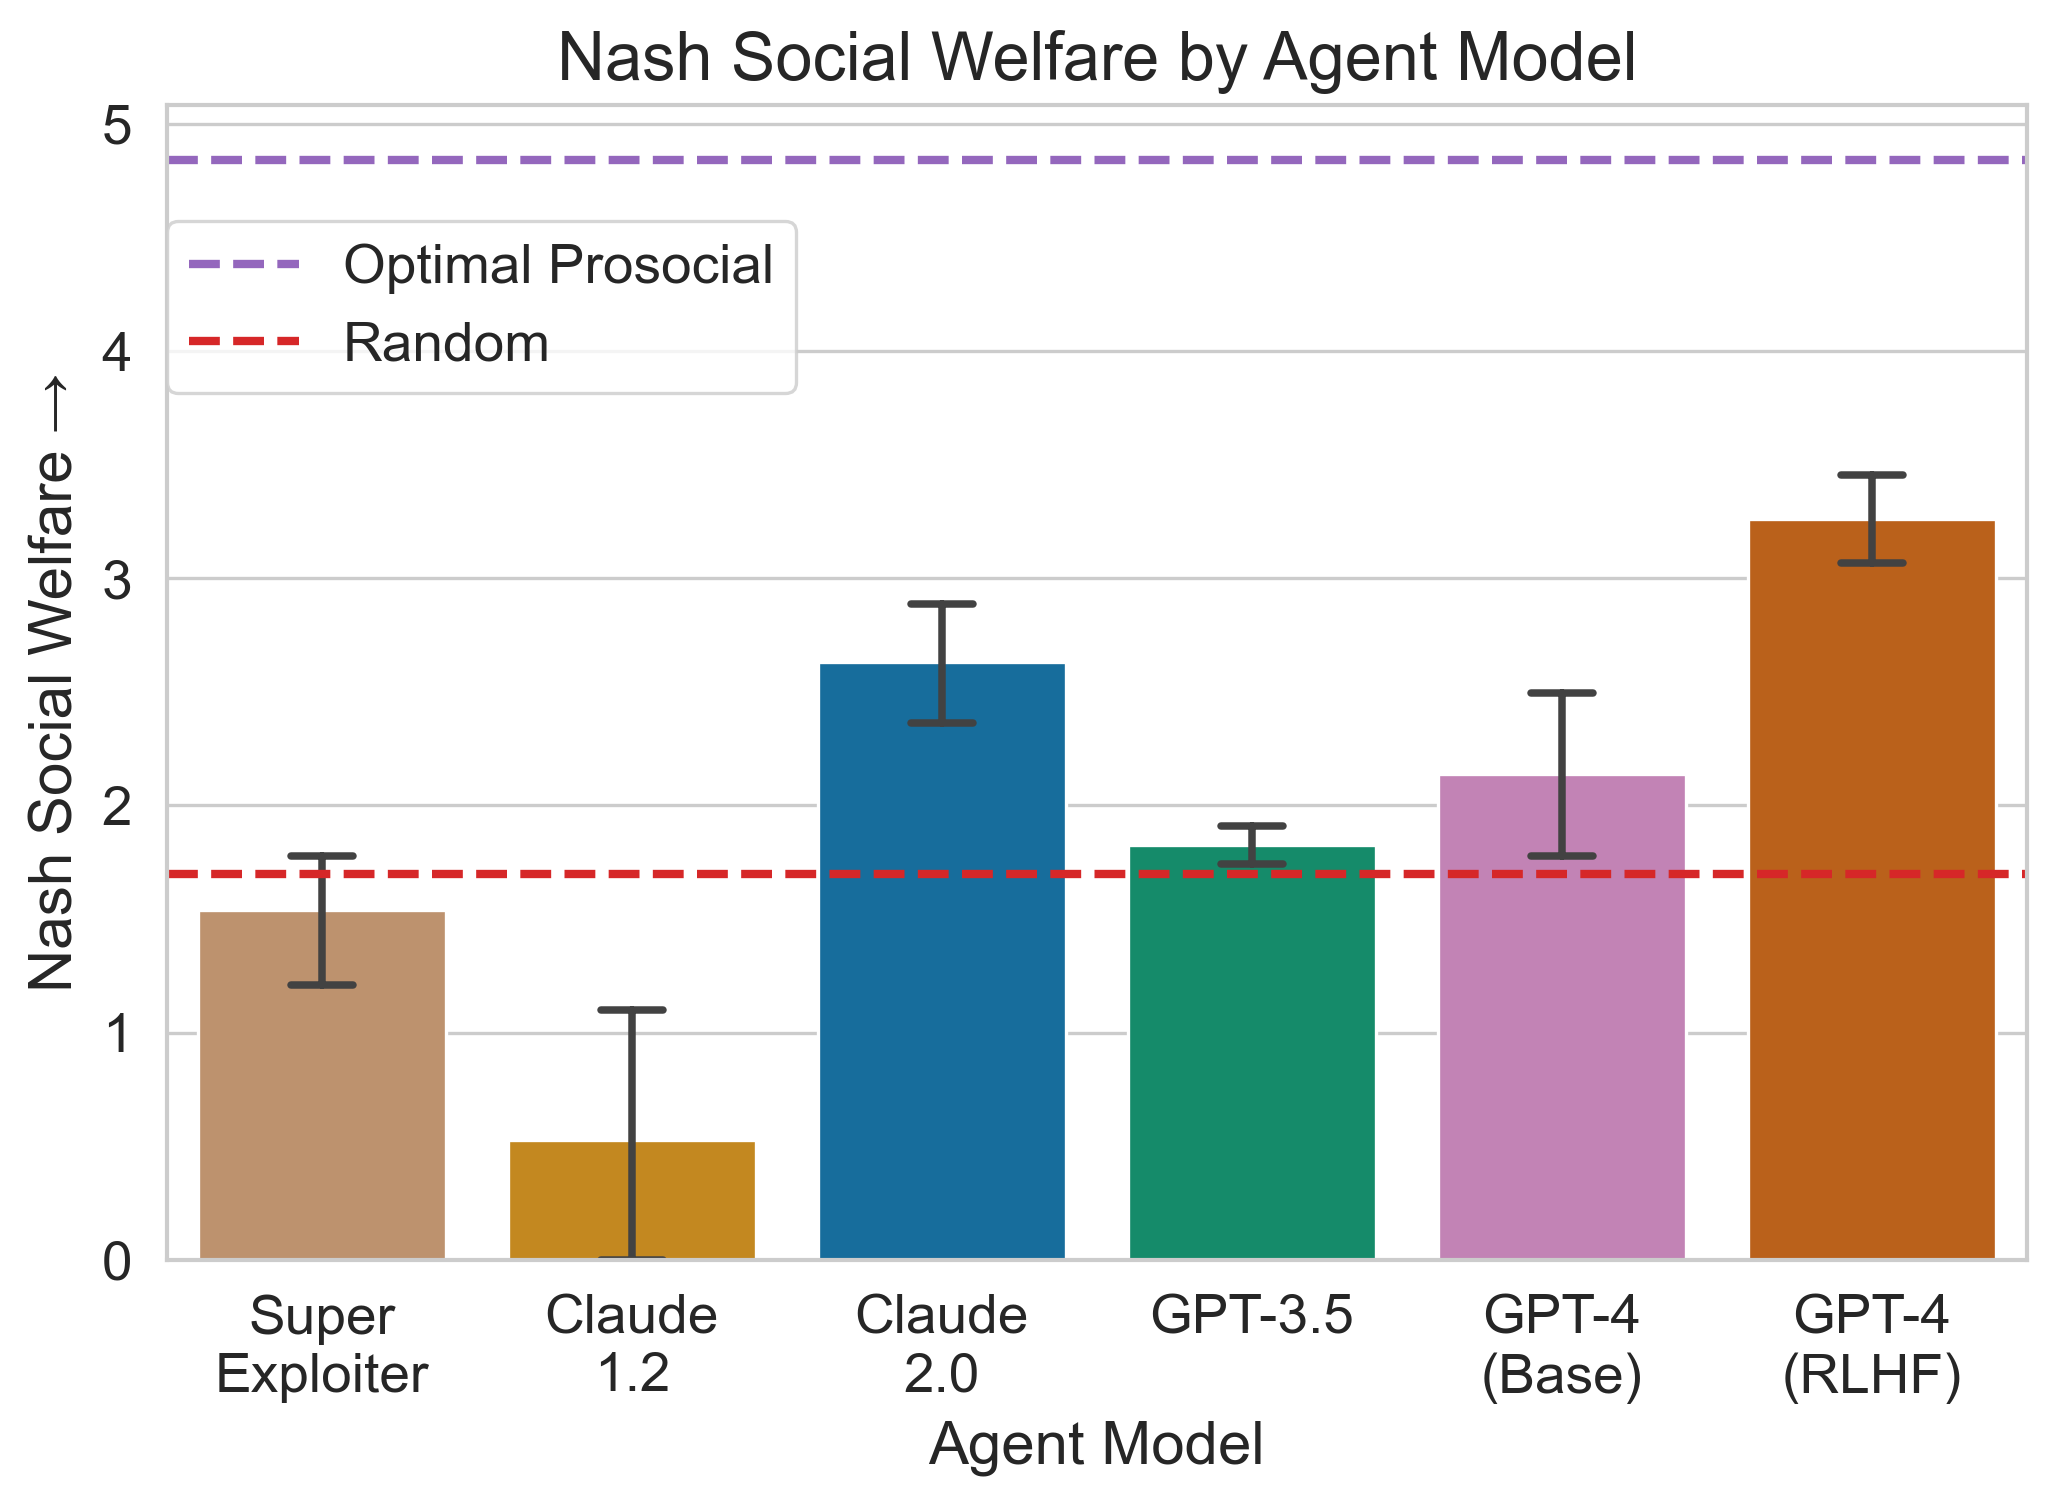
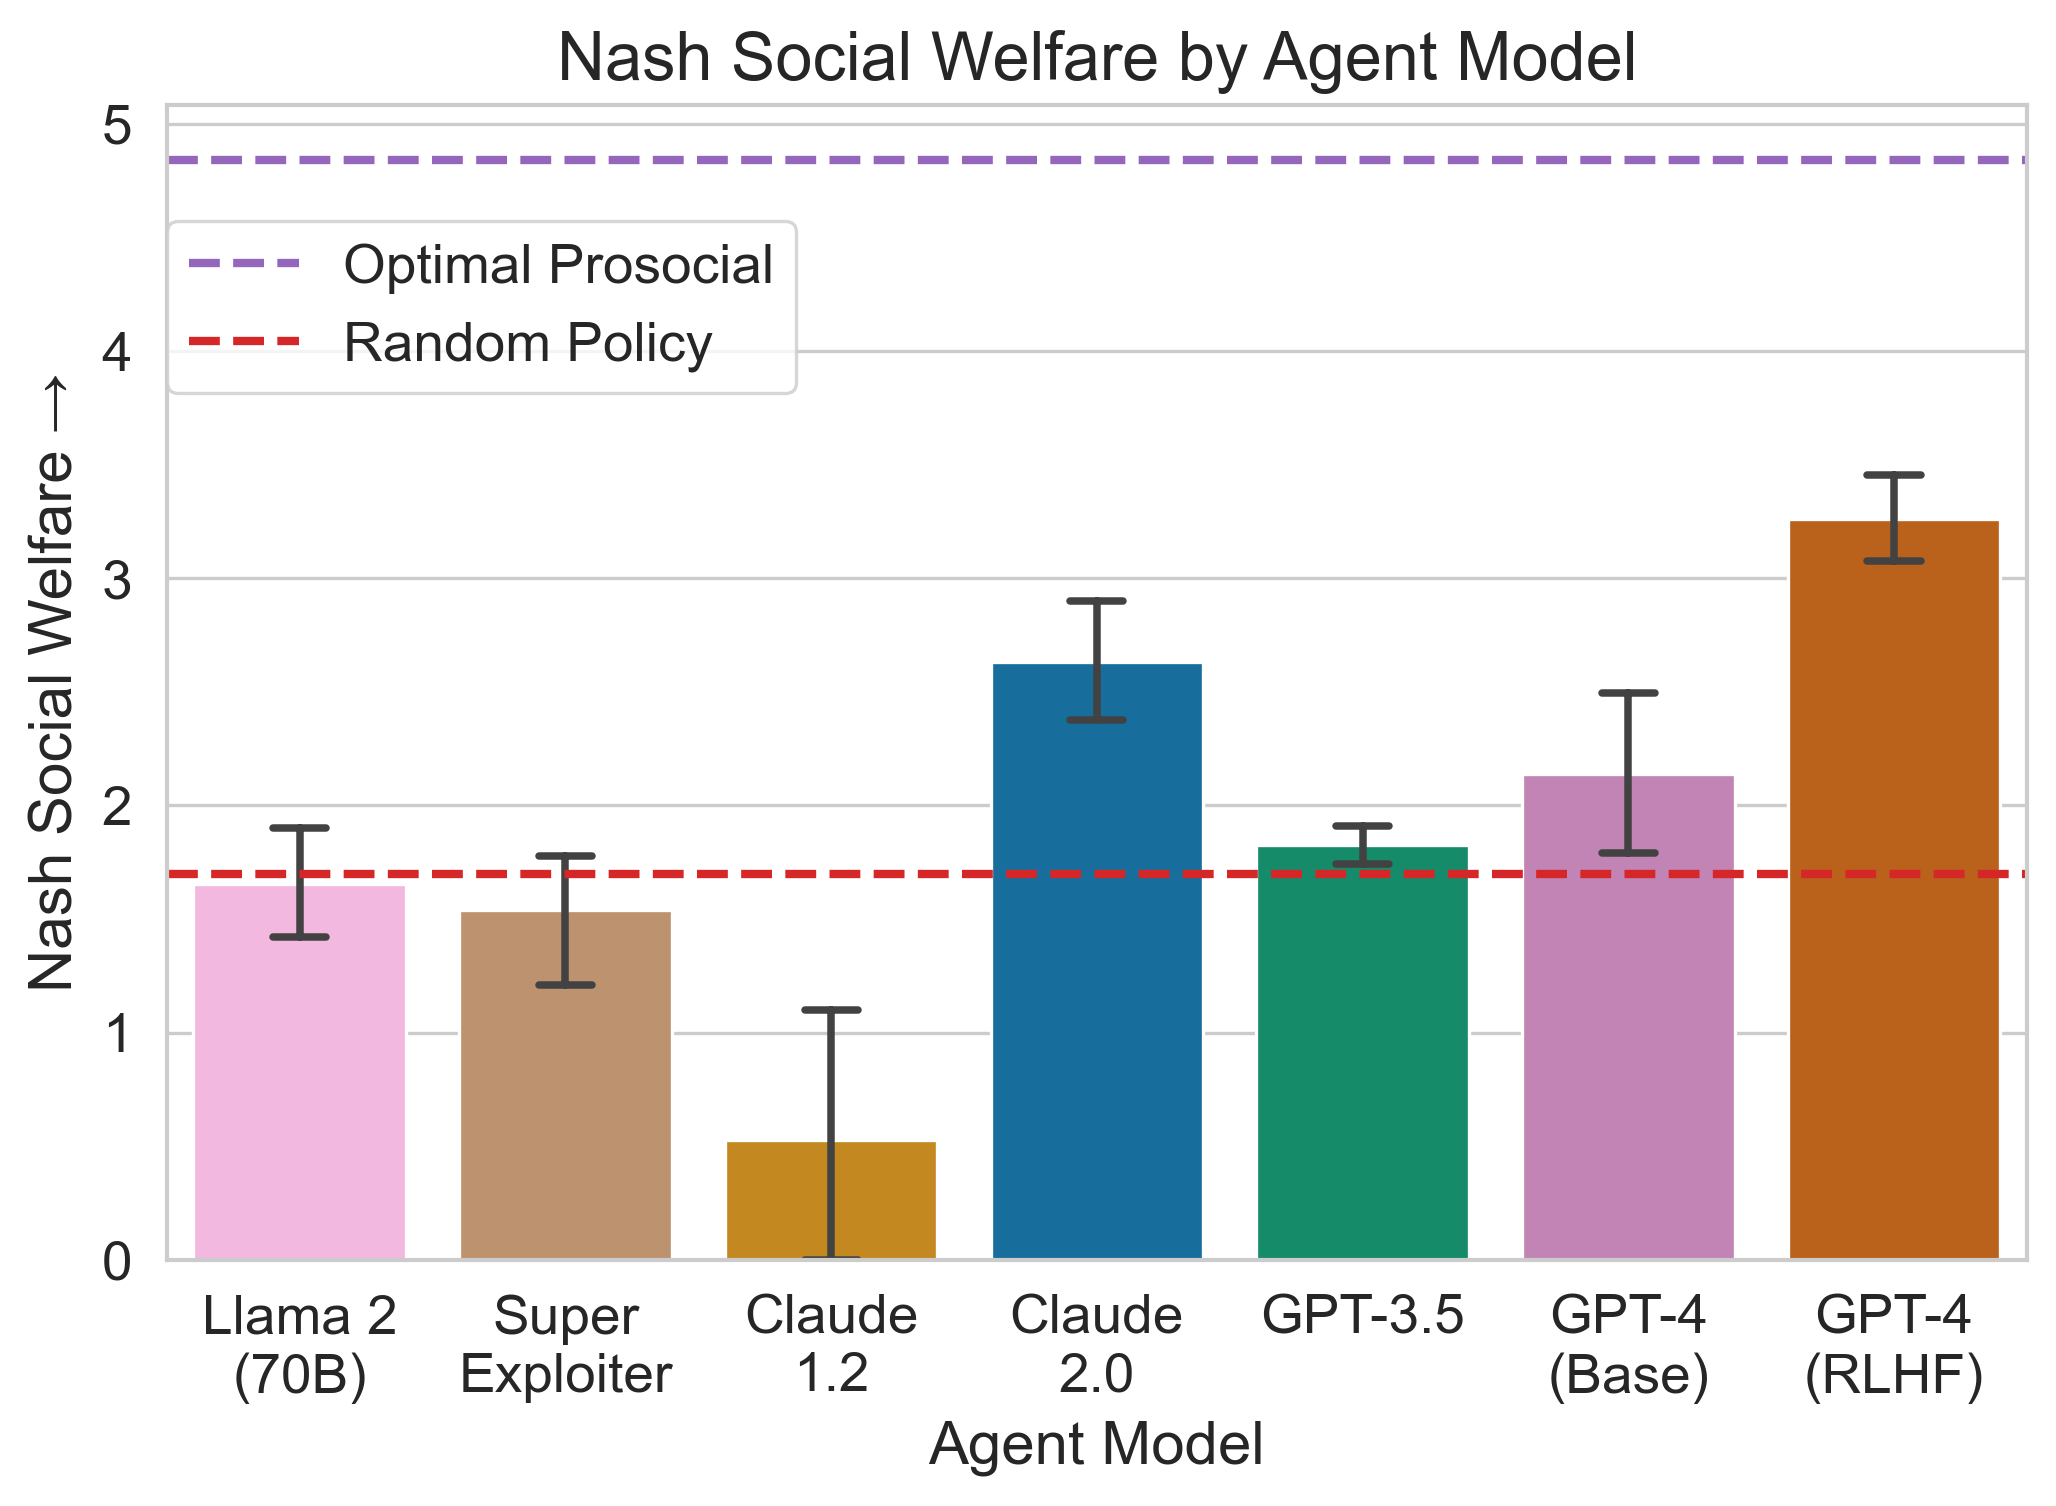
add llama, as SCs lost sp

diff --git a/experiments/charts/same_policy.py b/experiments/charts/same_policy.py
@@ -27,6 +27,7 @@ INPUT_FILES_MODELS = [
     "../results/same_policy/SP GPT-4-0613.csv",
     "../results/same_policy/SP GPT-4-Base.csv",
     "../results/same_policy/SP SuperExploiter (GPT-4).csv",
+    "../results/same_policy/SP Llama2-70b-chat.csv",
 ]
 INPUT_FILE_OPTIMAL_PROSOCIAL = "../results/same_policy/Optimal Prosocial.csv"
 INPUT_FILE_RANDOM = "../results/same_policy/SP Random.csv"
@@ -93,7 +94,7 @@ def main() -> None:
             1,
             False,
             False,
-            (0.65, 1.005),
+            (0.5, 1.005),
             "best",
         ),
         (
@@ -193,44 +194,50 @@ def main() -> None:
         # Clear the plot
         plt.clf()
 
-    # Special plot: Scatterplot of nash social welfare vs conflicts
-    df_plot = pd.concat([df_models, df_random]).copy()
-    df_plot["agent_model"] = df_plot["agent_model"].str.replace("\n", " ")
-    grouping = "Agent Model"
-    df_plot = df_plot.rename(columns={"agent_model": grouping})
-    initialize_plot_default()
-    plt.rcParams["lines.marker"] = ""
-    sns.regplot(
-        data=df_plot,
-        x="combat/game_conflicts_avg",
-        y="benchmark/nash_social_welfare_global",
-        scatter=False,
-        color=COLOR_ALT_1,
-    )
-    initialize_plot_default()
-    plt.rcParams["lines.markersize"] = 14
-    sns.scatterplot(
-        data=df_plot,
-        x="combat/game_conflicts_avg",
-        y="benchmark/nash_social_welfare_global",
-        hue=grouping,
-        style=grouping,
-        palette=MODEL_COMPARISON_COLORS + [COLOR_ALT_2],
-    )
-    plt.xlabel("Average Conflicts per Phase ↓")
-    plt.ylabel("Nash Social Welfare →")
-    plt.title("Nash Social Welfare vs Average Conflicts per Phase")
-    # Legend in 2 columns
-    plt.legend(
-        borderaxespad=0.0,
-        ncol=2,
-        handletextpad=0.1,
-        columnspacing=0.5,
-    )
-    title = "SP Nash Social Welfare vs Conflicts.png"
-    output_file = get_results_full_path(os.path.join(OUTPUT_DIR, title))
-    save_plot(output_file)
-    print(f"Saved plot '{title}' to {output_file}")
+    # Special plot: Scatterplot of nash social welfare vs other things
+    for x_axis, x_label in [
+        ("combat/game_conflicts_avg", "Conflicts"),
+        ("conquest/game_centers_lost_avg", "SCs Lost"),
+    ]:
+        df_plot = pd.concat([df_models, df_random]).copy()
+        df_plot["agent_model"] = df_plot["agent_model"].str.replace("\n", " ")
+        grouping = "Agent Model"
+        df_plot = df_plot.rename(columns={"agent_model": grouping})
+        initialize_plot_default()
+        plt.rcParams["lines.marker"] = ""
+        sns.regplot(
+            data=df_plot,
+            x=x_axis,
+            y="benchmark/nash_social_welfare_global",
+            scatter=False,
+            color=COLOR_ALT_1,
+        )
+        initialize_plot_default()
+        plt.rcParams["lines.markersize"] = 14
+        sns.scatterplot(
+            data=df_plot,
+            x=x_axis,
+            y="benchmark/nash_social_welfare_global",
+            hue=grouping,
+            style=grouping,
+            palette=MODEL_COMPARISON_COLORS + [COLOR_ALT_2],
+        )
+        plt.xlabel(f"Average {x_label} per Phase ↓")
+        plt.ylabel("Root Nash Welfare →")
+        plt.title(f"Root Nash Welfare vs Average {x_label} per Phase")
+        # Legend in 2 columns
+        plt.legend(
+            borderaxespad=0.0,
+            ncol=2,
+            handletextpad=0.1,
+            columnspacing=0.5,
+        )
+        title = f"SP Nash Social Welfare vs {x_label}.png"
+        output_file = get_results_full_path(os.path.join(OUTPUT_DIR, title))
+        save_plot(output_file)
+        print(f"Saved plot '{title}' to {output_file}")
+
+        plt.clf()
 
 
 if __name__ == "__main__":
